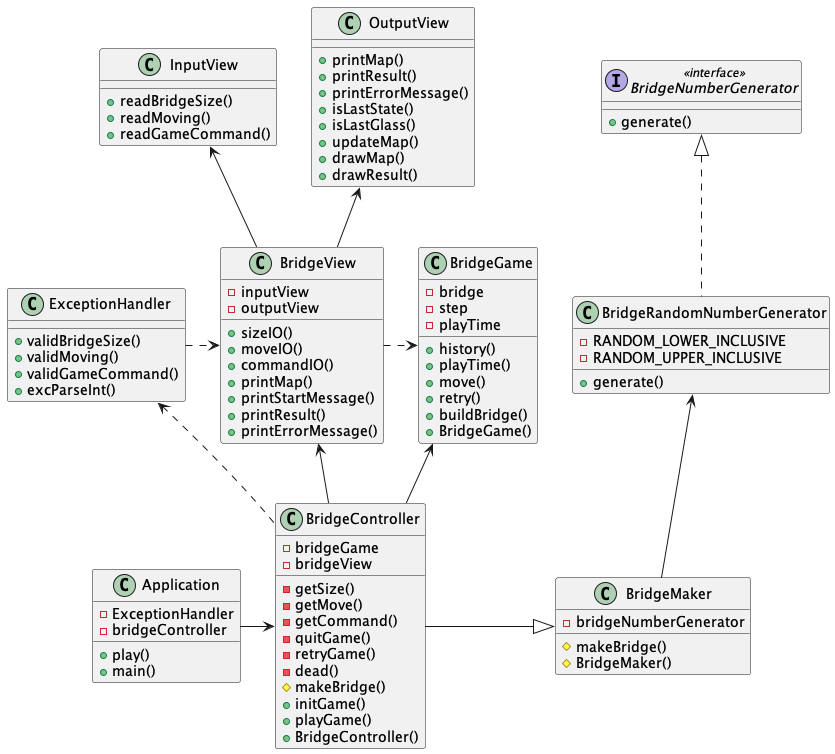
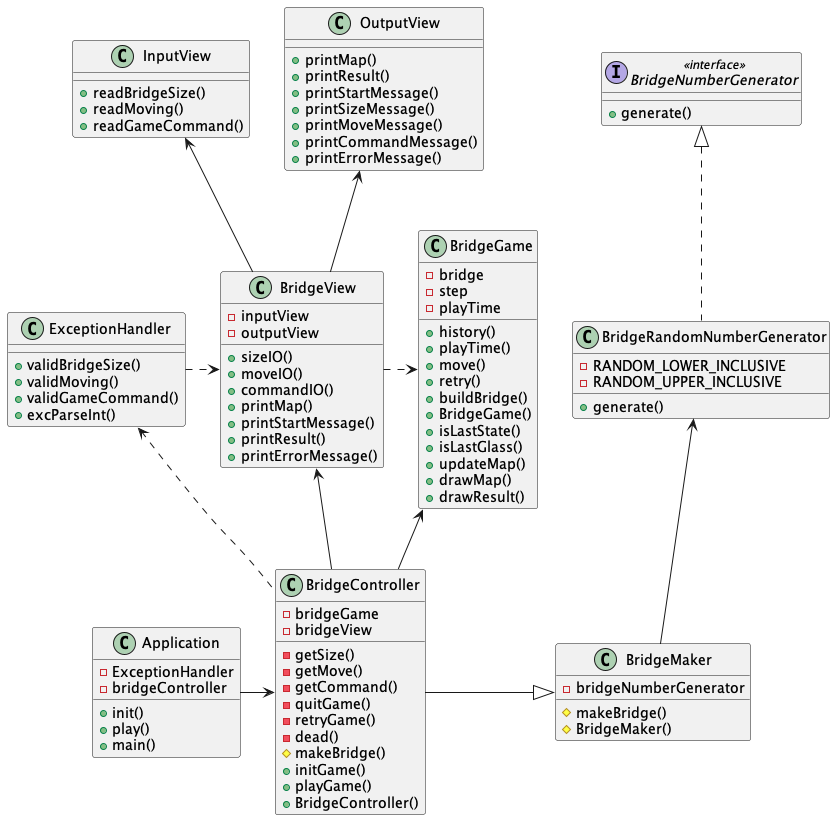
docs(main/java/bridge/docs): 기능 문서 및 클래스 다이어그램 수정
OutputView.java에서 출력값을 만드는 methods를 BridgeGame.java로 이동

diff --git a/docs/README.md b/docs/README.md
@@ -6,9 +6,9 @@
 > 
 > 아래와 같은 MVC 패턴으로 설계
 >
-> | Model    |                   View                    |              Controller                |
-> ----------|:-----------------------------------------:|:-------------------------------------:|
->  BridgeGame | BridgeView <br/> InputView<br/>OutPutView | BridgeController<br/>ExceptionHandler| 
+> | Model    |                   View                    |              Controller                |                     Enum                     |
+> ----------|:-----------------------------------------:|:-------------------------------------:|:--------------------------------------------:|
+>  BridgeGame | BridgeView <br/> InputView<br/>OutPutView | BridgeController<br/>ExceptionHandler| Command<br/>Glass<br/>Message<br/>State<br/> | 
 
 >### 🏗 BridgeGame
 > * Bridge 관련 정보를 저장하는 모델
@@ -17,12 +17,18 @@
 > ### Method List
 > 
 >| No. | 함수명           | 기능                                        | 
->-----|:--------------|:------------------------------------------|
-> 1   | history()     | 현재까지 user가 지나온 bridge 리턴                  |
->| 2   | playTime()    | playTime(플레이 횟수) 리턴                       |
->| 3   | move()        | Controller로부터 전달받은 칸으로 이동                 |
->| 4   | retry()       | 게임 재시작                                    |
->| 5   | buildBridge() | 전달받은 String List를 Glass List로 변환 후 필드에 저장 |
+>---|:--------------|:------------------------------------------|
+>1 | history()     | 현재까지 user가 지나온 bridge 리턴                  |
+>2 | playTime()    | playTime(플레이 횟수) 리턴                       |
+>3 | move()        | Controller로부터 전달받은 칸으로 이동                 |
+>4 | retry()       | 게임 재시작                                    |
+>5 | buildBridge() | 전달받은 String List를 Glass List로 변환 후 필드에 저장 |
+>6| isLastGlass()       | Bridge와 최종 State로 유저의 이동 방향을 도출             | 
+>7| isLastState()       | 유저의 State를 도출, 전달받은 최종 State 외에 모두 SAFE로 처리 | 
+>8| updateMap()         | 지나온 Bridge UI를 UP, DOWN 별로 생성               | 
+>9| combineMap()        | UP/DOWN Bridge UI를 연결해 최종 UI 생성             | 
+>10| drawMap()           | 현재까지 진행한 Bridge 현황 UI 생성                    | 
+>11| drawResult()        | 최종 결과 UI 생성                                 | 
 
 
 
@@ -39,8 +45,8 @@
 >3| commandIO()         | 유저로부터 게임 진행 여부를 입력 받음   |  I/O   |
 >4| printMap()          | 현재까지 진행한 Bridge 현황 출력   | OUTPUT |
 >5| printStartMessage() | 시작 메시지 출력               | OUTPUT |
->5| printResult()       | 최종 결과 출력                | OUTPUT |
->6| printErrorMessage() | 에러 메시지 출력               | OUTPUT |
+>6| printResult()       | 최종 결과 출력                | OUTPUT |
+>7| printErrorMessage() | 에러 메시지 출력               | OUTPUT |
 
 >### 👁 InputView
 >
@@ -58,17 +64,16 @@
 > * 출력을 수행하는 UI
 > ### Method List
 > 
->| No.          | 함수명                 | 기능                                          |  
->------------|:--------------------|:--------------------------------------------|
->1| printMap()          | 현재까지 진행한 Bridge 현황 출력                       | 
->2| printResult()       | 최종 결과 출력                                    | 
->3| printErrorMessage() | 에러 메시지 출력                                   | 
->4| isLastGlass()       | Bridge와 최종 State로 유저의 이동 방향을 도출             | 
->5| isLastState()       | 유저의 State를 도출, 전달받은 최종 State 외에 모두 SAFE로 처리 | 
->6| updateMap()         | 지나온 Bridge UI를 UP, DOWN 별로 생성               | 
->7| combineMap()        | UP/DOWN Bridge UI를 연결해 최종 UI 생성             | 
->8| drawMap()           | 현재까지 진행한 Bridge 현황 UI 생성                    | 
->9| drawResult()        | 최종 결과 UI 생성                                 | 
+>| No.          | 함수명                   | 기능                      |  
+>------------|:----------------------|:------------------------|
+>1| printMap()            | 현재까지 진행한 Bridge 현황 출력   | 
+>2| printResult()         | 최종 결과 출력                | 
+>3| printStartMessage()   | 시작 메시지 출력               |
+>3| printSizeMessage()    | Bridge 사이즈 입력 안내 메시지 출력 |
+>3| printMoveMessage()    | 이동 방향 입력 안내 메시지 출력      |
+>3| printCommandMessage() | 게임 진행 여부 입력 안내 메시지 출력   |
+>3| printErrorMessage()   | 에러 메시지 출력               |
+
 
 
 >### 🕹 BridgeController
